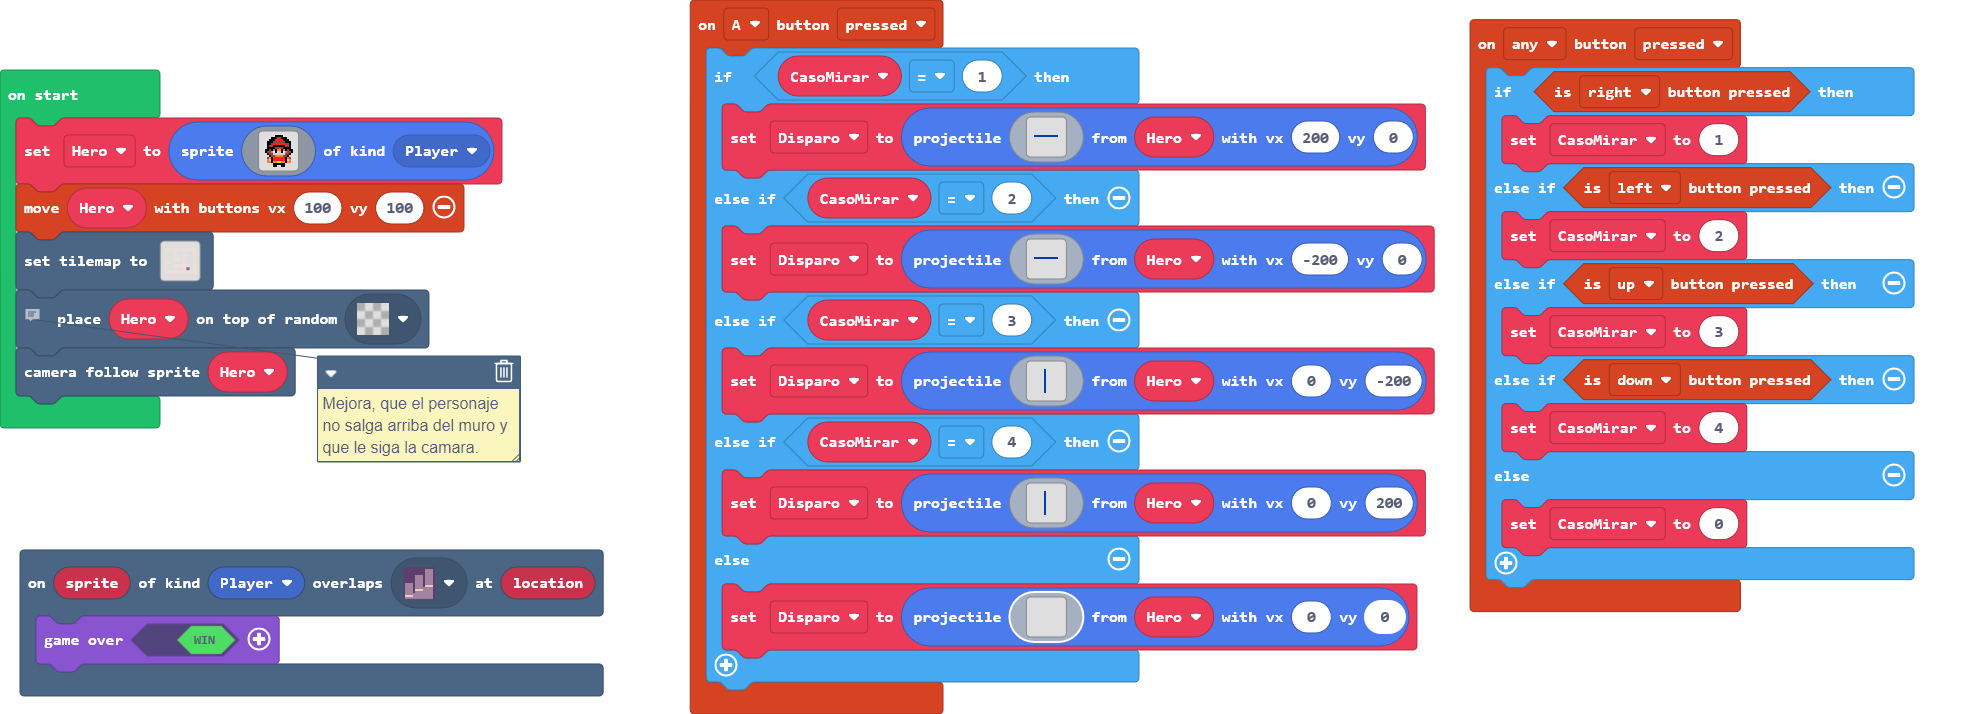
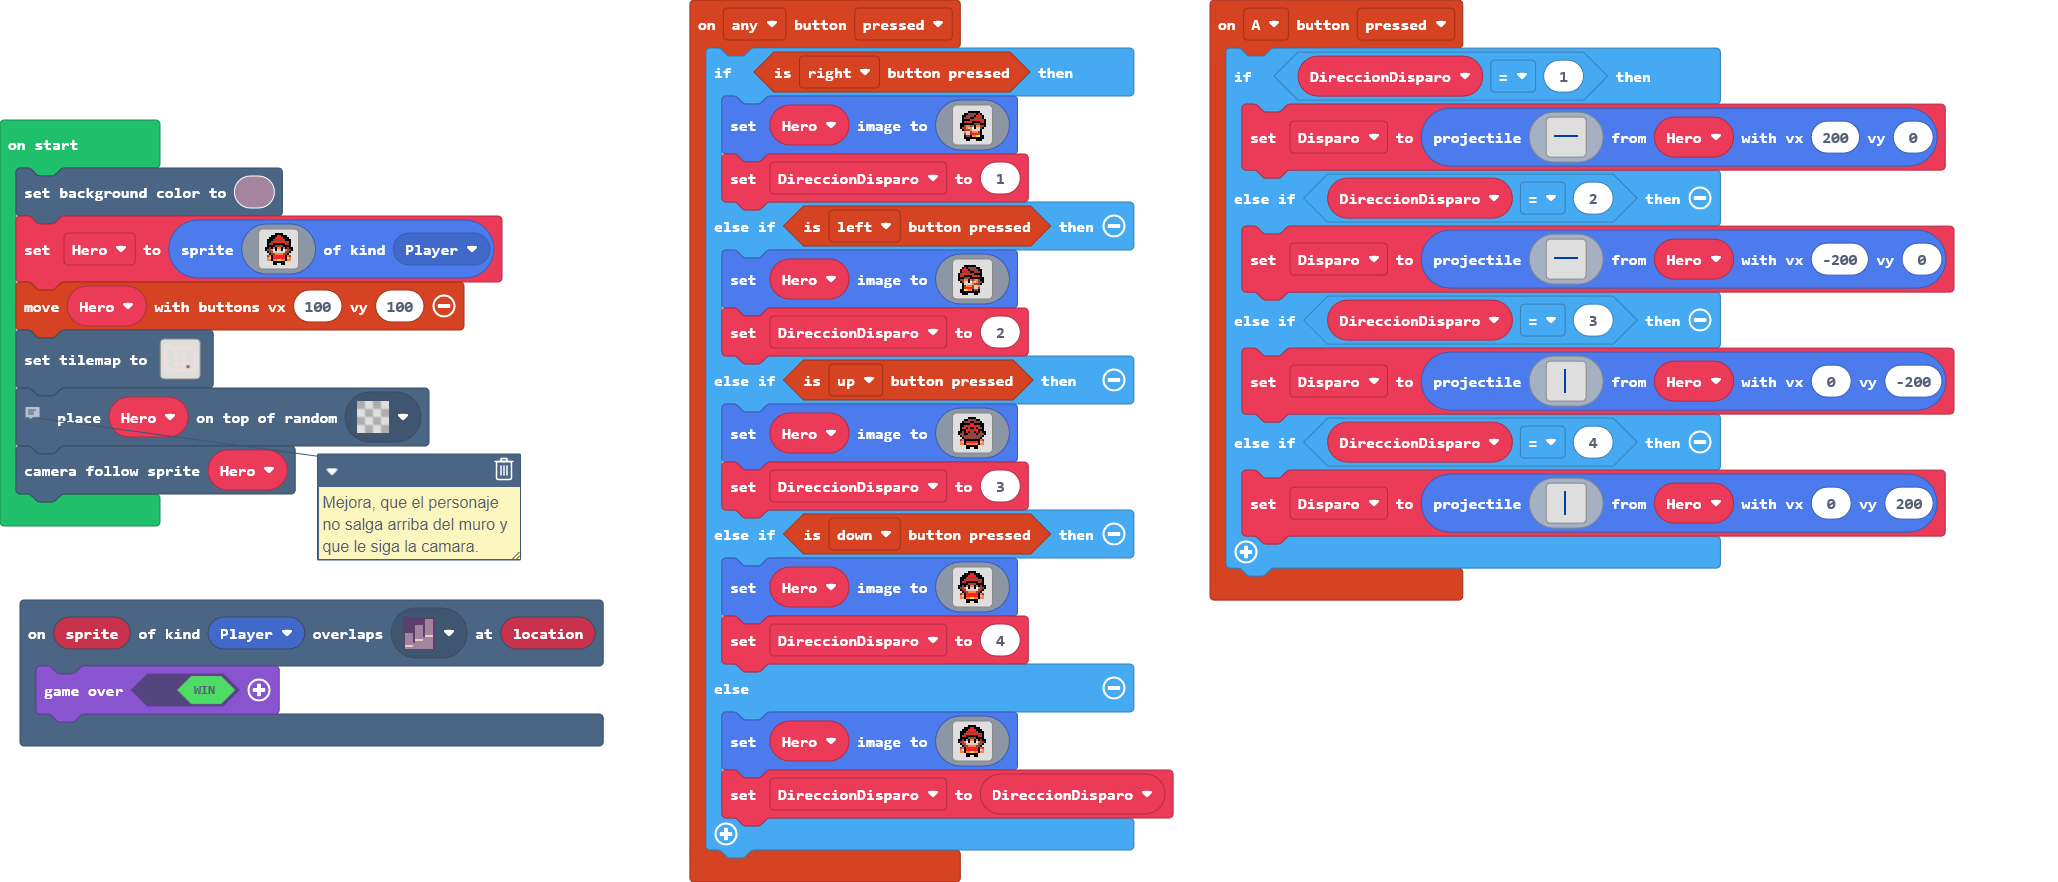
Añadido mirar personaje a la dirección. Nuevo fondo. Corrección direccidirección de disparo.

diff --git a/main.ts b/main.ts
@@ -1,18 +1,108 @@
 controller.anyButton.onEvent(ControllerButtonEvent.Pressed, function () {
     if (controller.right.isPressed()) {
-        CasoMirar = 1
+        Hero.setImage(img`
+            . . . . . . . . . . . . . . . . 
+            . . . . . . f f f f f f . . . . 
+            . . . . f f e e e e f 2 f . . . 
+            . . . f f e e e e f 2 2 2 f . . 
+            . . . f e e e f f e e e e f . . 
+            . . . f f f f e e 2 2 2 2 e f . 
+            . . . f e 2 2 2 f f f f e 2 f . 
+            . . f f f f f f f e e e f f f . 
+            . . f f e 4 4 e b f 4 4 e e f . 
+            . . f e e 4 d 4 1 f d d e f . . 
+            . . . f e e e 4 d d d d f . . . 
+            . . . . 4 d d e 4 4 4 e f . . . 
+            . . . . e d d e 2 2 2 2 f . . . 
+            . . . . f e e f 4 4 5 5 f f . . 
+            . . . . f f f f f f f f f f . . 
+            . . . . . f f . . . f f f . . . 
+            `)
+        DireccionDisparo = 1
     } else if (controller.left.isPressed()) {
-        CasoMirar = 2
+        Hero.setImage(img`
+            . . . . . . . . . . . . . . . . 
+            . . . . f f f f f f . . . . . . 
+            . . . f 2 f e e e e f f . . . . 
+            . . f 2 2 2 f e e e e f f . . . 
+            . . f e e e e f f e e e f . . . 
+            . f e 2 2 2 2 e e f f f f . . . 
+            . f 2 e f f f f 2 2 2 e f . . . 
+            . f f f e e e f f f f f f f . . 
+            . f e e 4 4 f b e 4 4 e f f . . 
+            . . f e d d f 1 4 d 4 e e f . . 
+            . . . f d d d d 4 e e e f . . . 
+            . . . f e 4 4 4 e d d 4 . . . . 
+            . . . f 2 2 2 2 e d d e . . . . 
+            . . f f 5 5 4 4 f e e f . . . . 
+            . . f f f f f f f f f f . . . . 
+            . . . f f f . . . f f . . . . . 
+            `)
+        DireccionDisparo = 2
     } else if (controller.up.isPressed()) {
-        CasoMirar = 3
+        Hero.setImage(img`
+            . . . . . . f f f f . . . . . . 
+            . . . . f f e e e e f f . . . . 
+            . . . f e e e f f e e e f . . . 
+            . . f f f f f 2 2 f f f f f . . 
+            . . f f e 2 e 2 2 e 2 e f f . . 
+            . . f e 2 f 2 f f 2 f 2 e f . . 
+            . . f f f 2 2 e e 2 2 f f f . . 
+            . f f e f 2 f e e f 2 f e f f . 
+            . f e e f f e e e e f e e e f . 
+            . . f e e e e e e e e e e f . . 
+            . . . f e e e e e e e e f . . . 
+            . . e 4 f f f f f f f f 4 e . . 
+            . . 4 d f 2 2 2 2 2 2 f d 4 . . 
+            . . 4 4 f 4 4 4 4 4 4 f 4 4 . . 
+            . . . . . f f f f f f . . . . . 
+            . . . . . f f . . f f . . . . . 
+            `)
+        DireccionDisparo = 3
     } else if (controller.down.isPressed()) {
-        CasoMirar = 4
+        Hero.setImage(img`
+            . . . . . . f f f f . . . . . . 
+            . . . . f f f 2 2 f f f . . . . 
+            . . . f f f 2 2 2 2 f f f . . . 
+            . . f f f e e e e e e f f f . . 
+            . . f f e 2 2 2 2 2 2 e e f . . 
+            . . f e 2 f f f f f f 2 e f . . 
+            . . f f f f e e e e f f f f . . 
+            . f f e f b f 4 4 f b f e f f . 
+            . f e e 4 1 f d d f 1 4 e e f . 
+            . . f e e d d d d d d e e f . . 
+            . . . f e e 4 4 4 4 e e f . . . 
+            . . e 4 f 2 2 2 2 2 2 f 4 e . . 
+            . . 4 d f 2 2 2 2 2 2 f d 4 . . 
+            . . 4 4 f 4 4 5 5 4 4 f 4 4 . . 
+            . . . . . f f f f f f . . . . . 
+            . . . . . f f . . f f . . . . . 
+            `)
+        DireccionDisparo = 4
     } else {
-        CasoMirar = 0
+        Hero.setImage(img`
+            . . . . . . f f f f . . . . . . 
+            . . . . f f f 2 2 f f f . . . . 
+            . . . f f f 2 2 2 2 f f f . . . 
+            . . f f f e e e e e e f f f . . 
+            . . f f e 2 2 2 2 2 2 e e f . . 
+            . . f e 2 f f f f f f 2 e f . . 
+            . . f f f f e e e e f f f f . . 
+            . f f e f b f 4 4 f b f e f f . 
+            . f e e 4 1 f d d f 1 4 e e f . 
+            . . f e e d d d d d d e e f . . 
+            . . . f e e 4 4 4 4 e e f . . . 
+            . . e 4 f 2 2 2 2 2 2 f 4 e . . 
+            . . 4 d f 2 2 2 2 2 2 f d 4 . . 
+            . . 4 4 f 4 4 5 5 4 4 f 4 4 . . 
+            . . . . . f f f f f f . . . . . 
+            . . . . . f f . . f f . . . . . 
+            `)
+        DireccionDisparo = DireccionDisparo
     }
 })
 controller.A.onEvent(ControllerButtonEvent.Pressed, function () {
-    if (CasoMirar == 1) {
+    if (DireccionDisparo == 1) {
         Disparo = sprites.createProjectileFromSprite(img`
             . . . . . . . . . . . . . . . . 
             . . . . . . . . . . . . . . . . 
@@ -31,7 +121,7 @@ controller.A.onEvent(ControllerButtonEvent.Pressed, function () {
             . . . . . . . . . . . . . . . . 
             . . . . . . . . . . . . . . . . 
             `, Hero, 200, 0)
-    } else if (CasoMirar == 2) {
+    } else if (DireccionDisparo == 2) {
         Disparo = sprites.createProjectileFromSprite(img`
             . . . . . . . . . . . . . . . . 
             . . . . . . . . . . . . . . . . 
@@ -50,7 +140,7 @@ controller.A.onEvent(ControllerButtonEvent.Pressed, function () {
             . . . . . . . . . . . . . . . . 
             . . . . . . . . . . . . . . . . 
             `, Hero, -200, 0)
-    } else if (CasoMirar == 3) {
+    } else if (DireccionDisparo == 3) {
         Disparo = sprites.createProjectileFromSprite(img`
             . . . . . . . . . . . . . . . . 
             . . . . . . . . . . . . . . . . 
@@ -69,7 +159,7 @@ controller.A.onEvent(ControllerButtonEvent.Pressed, function () {
             . . . . . . . . . . . . . . . . 
             . . . . . . . . . . . . . . . . 
             `, Hero, 0, -200)
-    } else if (CasoMirar == 4) {
+    } else if (DireccionDisparo == 4) {
         Disparo = sprites.createProjectileFromSprite(img`
             . . . . . . . . . . . . . . . . 
             . . . . . . . . . . . . . . . . 
@@ -88,33 +178,15 @@ controller.A.onEvent(ControllerButtonEvent.Pressed, function () {
             . . . . . . . . . . . . . . . . 
             . . . . . . . . . . . . . . . . 
             `, Hero, 0, 200)
-    } else {
-        Disparo = sprites.createProjectileFromSprite(img`
-            . . . . . . . . . . . . . . . . 
-            . . . . . . . . . . . . . . . . 
-            . . . . . . . . . . . . . . . . 
-            . . . . . . . . . . . . . . . . 
-            . . . . . . . . . . . . . . . . 
-            . . . . . . . . . . . . . . . . 
-            . . . . . . . . . . . . . . . . 
-            . . . . . . . . . . . . . . . . 
-            . . . . . . . . . . . . . . . . 
-            . . . . . . . . . . . . . . . . 
-            . . . . . . . . . . . . . . . . 
-            . . . . . . . . . . . . . . . . 
-            . . . . . . . . . . . . . . . . 
-            . . . . . . . . . . . . . . . . 
-            . . . . . . . . . . . . . . . . 
-            . . . . . . . . . . . . . . . . 
-            `, Hero, 0, 0)
     }
 })
 scene.onOverlapTile(SpriteKind.Player, sprites.dungeon.stairLarge, function (sprite, location) {
     game.over(true)
 })
 let Disparo: Sprite = null
-let CasoMirar = 0
+let DireccionDisparo = 0
 let Hero: Sprite = null
+scene.setBackgroundColor(11)
 Hero = sprites.create(img`
     . . . . . . f f f f . . . . . . 
     . . . . f f f 2 2 f f f . . . . 
